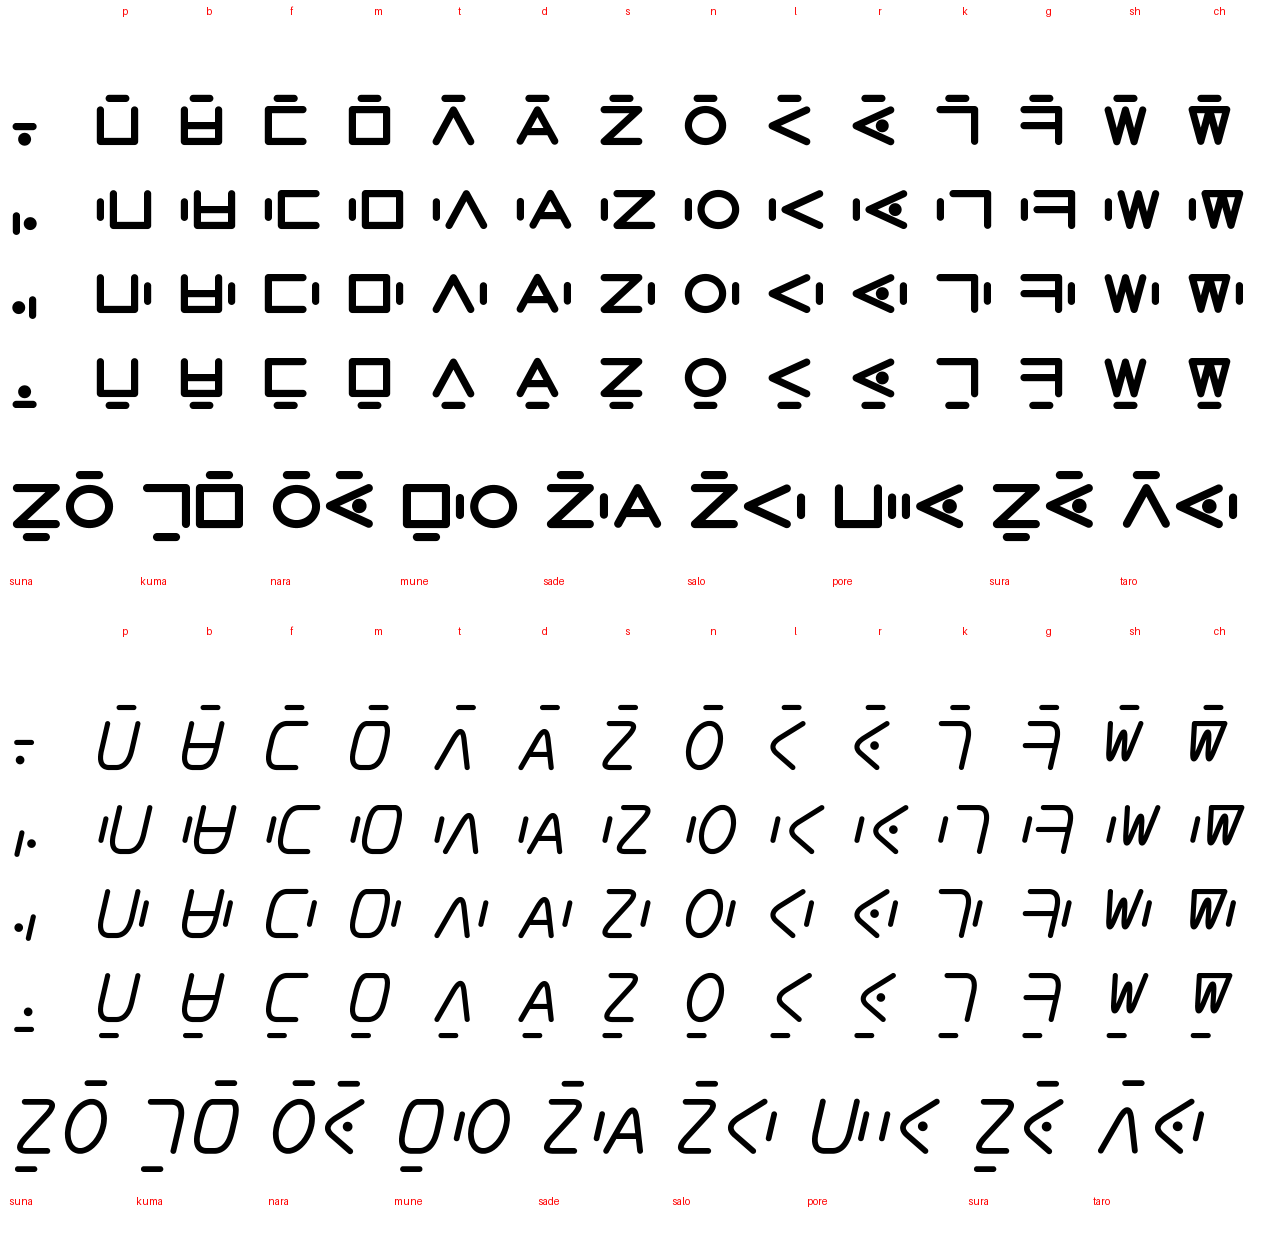
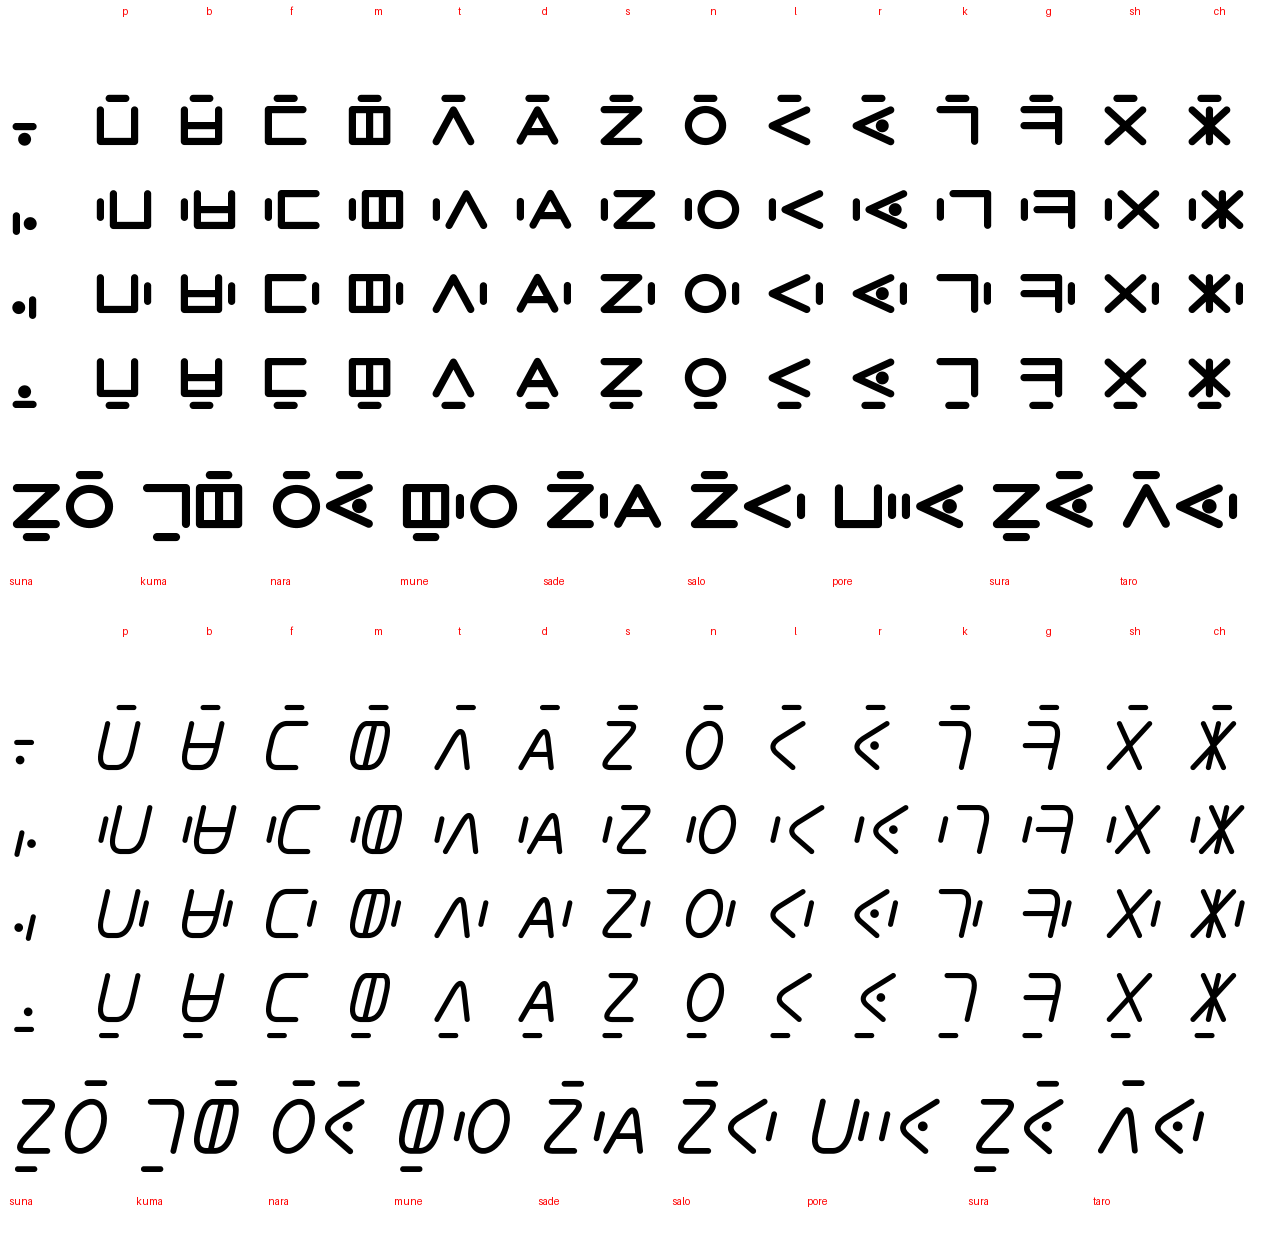
Propuesta v4: m con división, sh en X y ch en ✱ para separarlas de n y entre sí
Claude-Session: https://claude.ai/code/session_0168BxyeSwtqtBgiTXjr9Y1z

diff --git a/04_Fuentes/actual_3.3_fuente_y_glifos/OweeSans3_3_Source/glifos_v4.py b/04_Fuentes/actual_3.3_fuente_y_glifos/OweeSans3_3_Source/glifos_v4.py
@@ -9,11 +9,11 @@ pegada a un lado del recuadro:  a arriba · e izquierda · o derecha · u abajo.
 La barra es corta y nunca toca la consonante, así no se confunde con sus trazos.
 
 Consonantes (rasgo = significado, igual en todas las familias):
-    labiales   m □ cerrada · p ⊔ abierta arriba · b ⊔ con barra · f ⊏ abierta de lado
-    dentales   t Λ · d A (barra = sonora) · s Z (en la mano, S) · n ○ (nasal = cerrada)
+    labiales   m ▯▯ cuadro con división · p ⊔ abierta arriba · b ⊔ con barra · f ⊏ abierta de lado
+    dentales   t Λ · d A (barra = sonora) · s Z (en la mano, S) · n ○
                l <  · r <· (la r lleva un punto)
     velares    k ┐ · g ┐ con barra
-    palatales  sh W (en la mano, onda) · ch W con barra arriba
+    palatales  sh X · ch X con raya vertical (✱)
 Barra al medio = sonora (b, d, g). Coordenadas en pt de la tabla; y hacia arriba.
 """
 import math
@@ -33,7 +33,7 @@ def poly(*pts, closed=False): return (list(pts), closed)
 
 MIDY = 0.0
 C = {
-    "m":  [poly((X0, Y1), (X1, Y1), (X1, Y0), (X0, Y0), closed=True)],
+    "m":  [poly((X0, Y1), (X1, Y1), (X1, Y0), (X0, Y0), closed=True), poly((XC, Y1), (XC, Y0))],
     "p":  [poly((X0, Y1), (X0, Y0), (X1, Y0), (X1, Y1))],
     "b":  [poly((X0, Y1), (X0, Y0), (X1, Y0), (X1, Y1)), poly((X0, MIDY), (X1, MIDY))],
     "f":  [poly((X1, Y1), (X0, Y1), (X0, Y0), (X1, Y0))],
@@ -45,9 +45,8 @@ C = {
     "r":  [poly((X1, Y1), (X0, YC), (X1, Y0)), ("dot", 5.6, YC)],
     "k":  [poly((X0, Y1), (X1, Y1), (X1, Y0))],
     "g":  [poly((X0, Y1), (X1, Y1), (X1, Y0)), poly((X0, MIDY), (X1, MIDY))],
-    "sh": [poly((X0, Y1), (X0 + 2.25, Y0), (XC, Y1), (X1 - 2.25, Y0), (X1, Y1))],
-    "ch": [poly((X0, Y1), (X0 + 2.25, Y0), (XC, Y1), (X1 - 2.25, Y0), (X1, Y1)),
-           poly((X0, Y1), (X1, Y1))],
+    "sh": [poly((X0, Y1), (X1, Y0)), poly((X0, Y0), (X1, Y1))],
+    "ch": [poly((X0, Y1), (X1, Y0)), poly((X0, Y0), (X1, Y1)), poly((XC, Y1), (XC, Y0))],
 }
 # la "s" y el zigzag necesitan esquinas más suaves en la mano; el círculo es siempre círculo
 CORNER = {"sans": 0.0, "school": 3.6}
